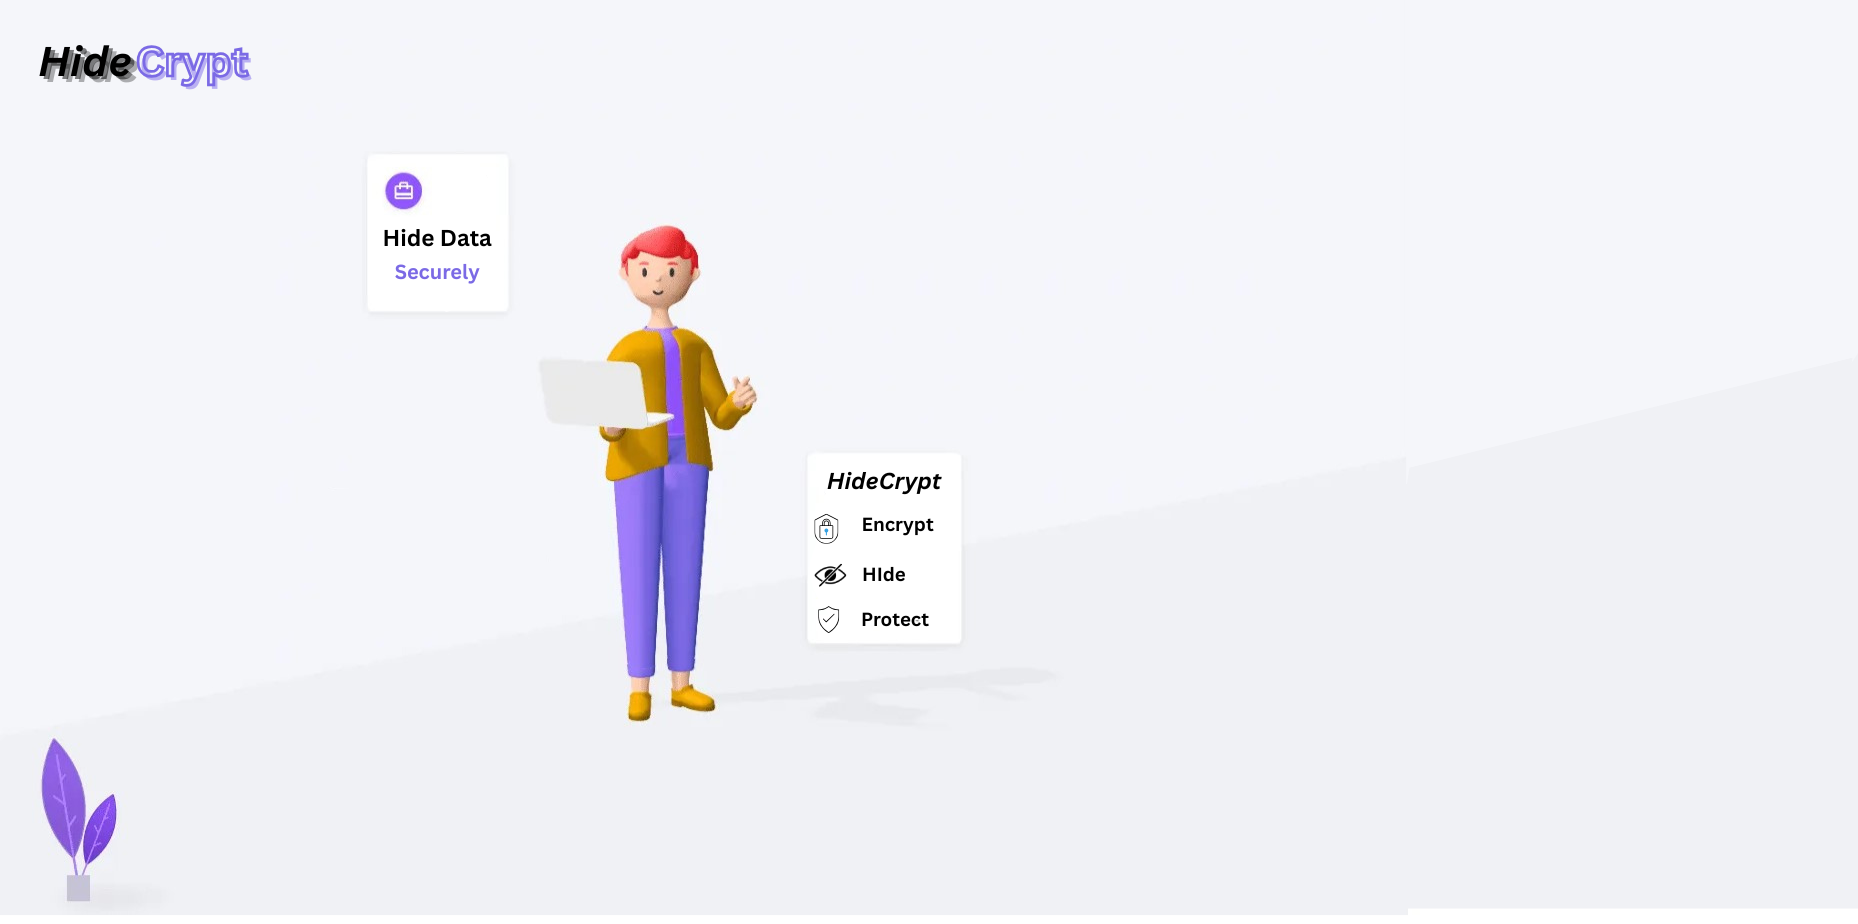
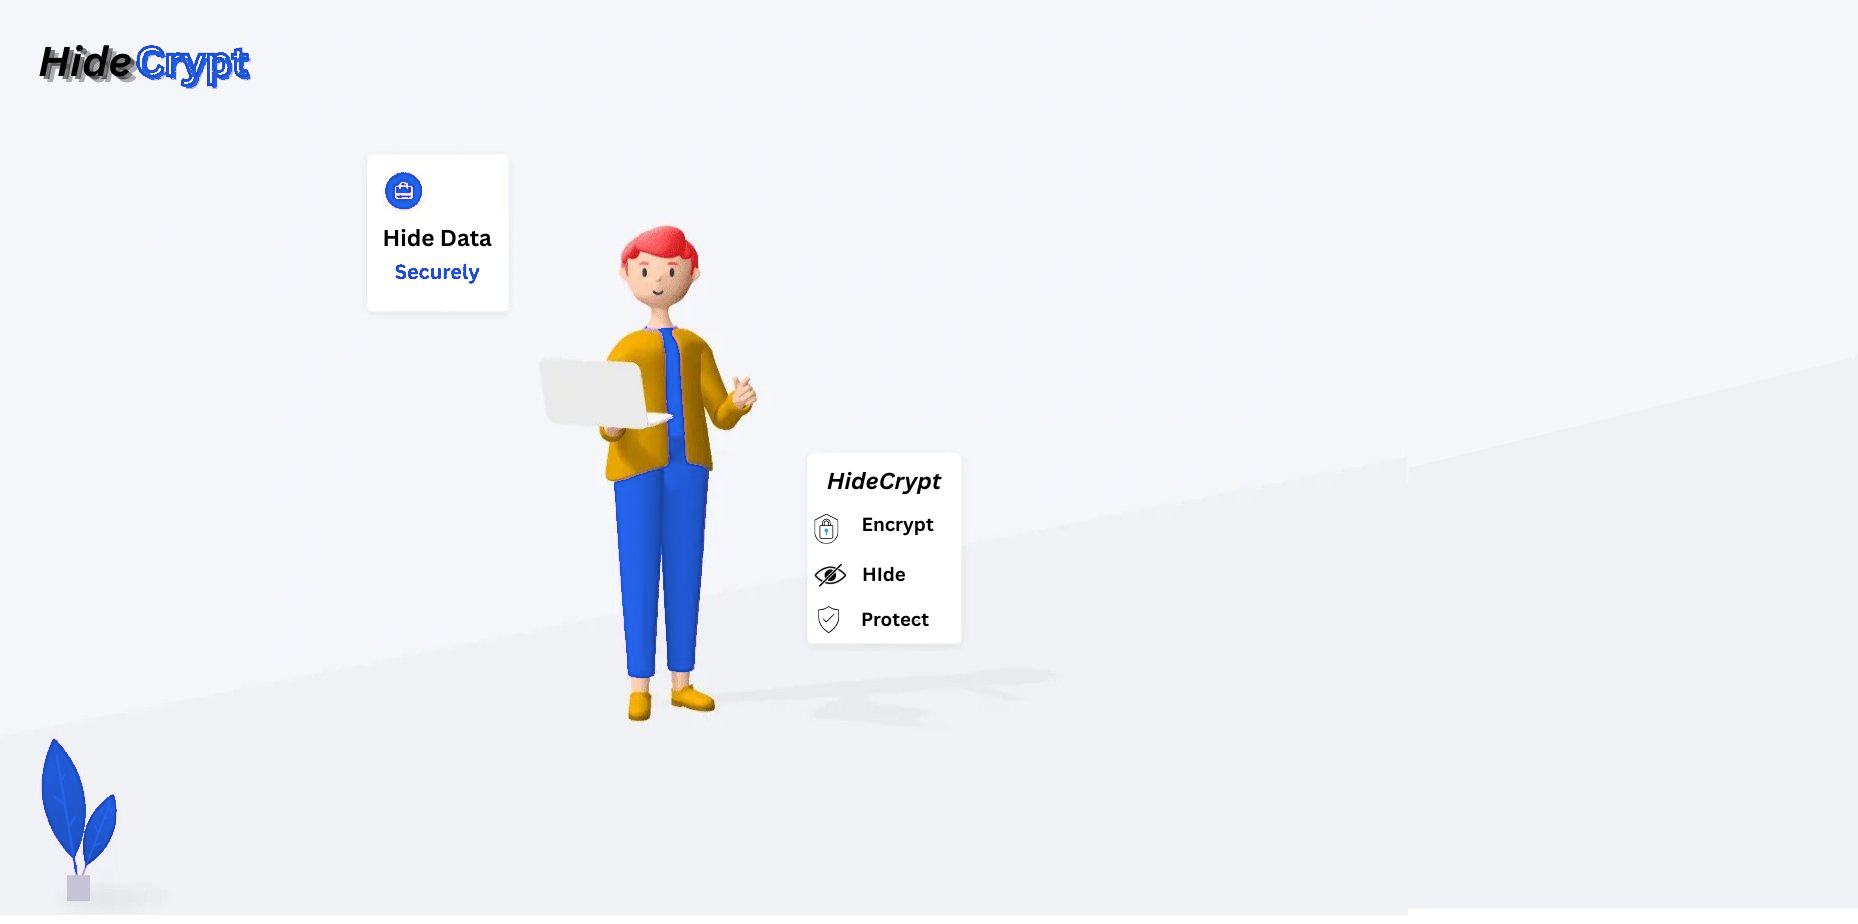
colors edited

diff --git a/src/pages/Signup.module.css b/src/pages/Signup.module.css
@@ -1,5 +1,5 @@
 .signup {
-    background-image: url("../Assets/cover.png");
+    background-image: url("../Assets/HideCrypt.png");
     background-size: cover;
     background-position: center;
     height: 100vh;
@@ -63,7 +63,7 @@
 .userBox:focus,
 .emailBox:focus,
 .passwordBox:focus {
-    border: 2px solid #8C57FF;
+    border: 2px solid #2563EB;
     border-radius: 5px;
     outline: none;
 }
@@ -86,7 +86,7 @@
 
 .checkbox input[type="checkbox"] {
     transform: scale(1.5);
-    accent-color: #6c5ce7;
+    accent-color: #21BE5B;
 }
 
 .agree {
@@ -96,7 +96,7 @@
 
 .checkbox a {
     text-decoration: none;
-    color: #7E4EE5;
+    color: #2563EB;
 }
 
 .checkbox a:hover {
@@ -114,11 +114,11 @@
     border: 0px;
     border-radius: 6px;
     color: white;
-    background-color: #8C57FF;
+    background-color: #2563EB;
 }
 
 .loginBtn:hover {
-    background-color: #6457c4;
+    background-color: #043ebb;
     cursor: pointer;
 }
 
@@ -137,9 +137,9 @@
 .createAcc a {
     text-decoration: none;
     cursor: pointer;
-    color: #8C57FF;
+    color: #2563EB;
 }
 
 .createAcc a:hover {
-    color: #5028a8;
+    color: #043ebb;
 }

diff --git a/src/pages/Login.module.css b/src/pages/Login.module.css
@@ -1,5 +1,5 @@
 .login {
-    background-image: url("../Assets/cover.png");
+    background-image: url("../Assets/HideCrypt.png");
     background-size: cover;
     background-position: center;
     height: 100vh;
@@ -58,7 +58,7 @@
 
 .emailBox:focus,
 .passwordBox:focus {
-    border: 2px solid #8C57FF;
+    border: 2px solid #2563EB;
     border-radius: 5px;
     outline: none;
 }
@@ -90,12 +90,12 @@
 
 .remem input[type="checkbox"] {
     transform: scale(1.5);
-    accent-color: #6c5ce7;
+    accent-color: #21BE5B;
 }
 
 .checkbox a {
     text-decoration: none;
-    color: #7E4EE5;
+    color: #2563EB;
 }
 
 .checkbox a:hover {
@@ -113,11 +113,11 @@
     border: 0px;
     border-radius: 6px;
     color: white;
-    background-color: #8C57FF;
+    background-color: #2563EB;
 }
 
 .loginBtn:hover {
-    background-color: #6457c4;
+    background-color: #043ebb;
     cursor: pointer;
 }
 
@@ -136,9 +136,9 @@
 .createAcc a {
     text-decoration: none;
     cursor: pointer;
-    color: #8C57FF;
+    color: #2563EB;
 }
 
 .createAcc a:hover {
-    color: #5028a8;
+    color: #043ebb;
 }

diff --git a/src/pages/Home.module.css b/src/pages/Home.module.css
@@ -52,7 +52,7 @@ body {
 }
 
 .heroSecBtn1:hover {
-    background-color: gray;
+    background-color: #21BE5B;
 }
 
 .heroSecBtn1:hover a {
@@ -70,7 +70,7 @@ body {
 }
 
 .heroSecBtn2 {
-    background-color: #8C57FF;
+    background-color: #2563EB;
     width: 180px;
     height: 40px;
     border-radius: 20px;
@@ -84,7 +84,7 @@ body {
 }
 
 .heroSecBtn2:hover {
-    background-color: #641CFF;
+    background-color: #043ebb;
 }
 
 .heroSecBtn2:hover a {

diff --git a/src/pages/Home.jsx b/src/pages/Home.jsx
@@ -77,11 +77,11 @@ function Home() {
           <div className={Styles.heroSecBtn}>
 
             <div className={Styles.heroSecBtn1}>
-              <Link>Button 1</Link>
+              <Link>Features</Link>
             </div>
 
             <div className={Styles.heroSecBtn2}>
-              <Link>Button 2</Link>
+              <Link>Try Tools</Link>
             </div>
 
           </div>

diff --git a/src/components/Navbar.module.css b/src/components/Navbar.module.css
@@ -1,7 +1,7 @@
 .navbar {
     width: 100vw;
     height: 8.5vh;
-    background-color: #8C57FF;
+    background-color: #2563EB;
 }
 
 .navbar {
@@ -63,7 +63,7 @@
 }
 
 .loginBtn a:hover {
-    color: #641CFF;
+    color: rgb(239, 239, 239);
 }
 
 .signinBtn {
@@ -81,7 +81,7 @@
 }
 
 .signinBtn:hover {
-    background-color: #641CFF;
+    background-color: #21BE5B;
 }
 
 .signinBtn:hover a {

diff --git a/src/components/Navbar.jsx b/src/components/Navbar.jsx
@@ -16,7 +16,7 @@ function Navbar() {
 
                 <Link>Home</Link>
                 <Link to="Tools">Tools</Link>
-                <Link>about</Link>
+                <Link>Guide</Link>
                 <Link>Features</Link>
 
             </div>
